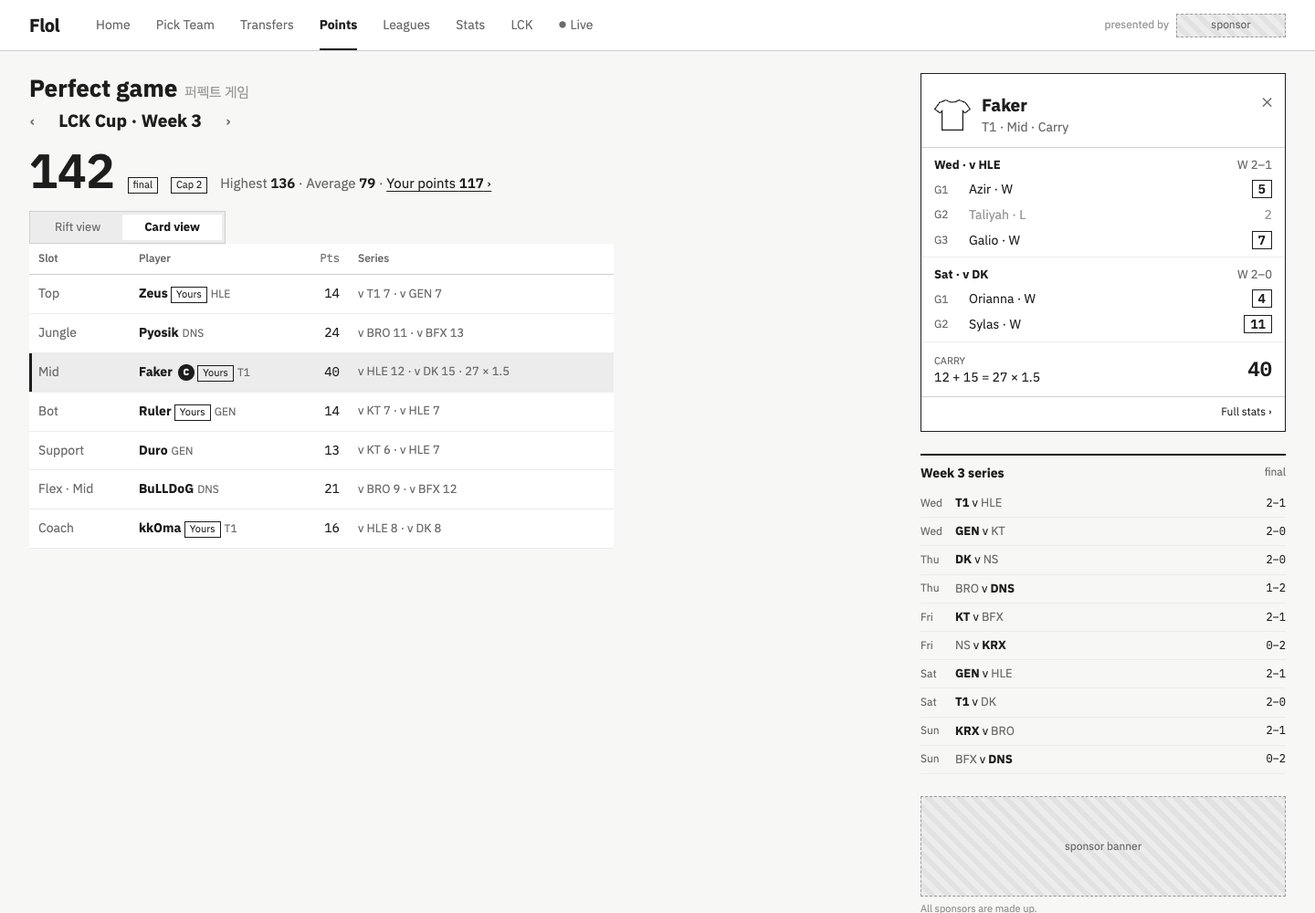
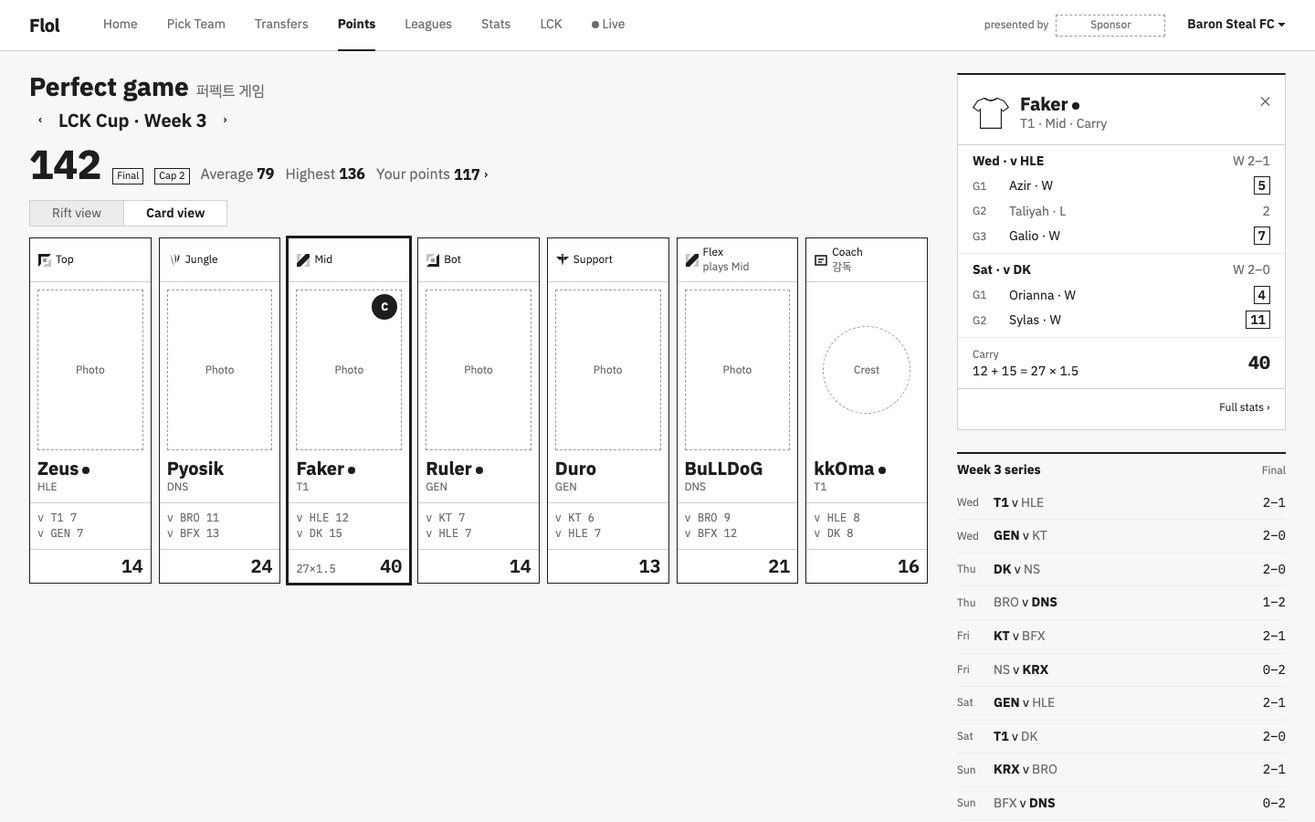
docs: Perfect game redrawn to plate.md; Card view the broadcast lineup

diff --git a/docs/design/approved/perfect-game/perfect.html b/docs/design/approved/perfect-game/perfect.html
@@ -1,159 +1,105 @@
 <!doctype html>
 <html lang="en"><head><meta charset="utf-8"><title>Perfect game</title>
-<style>@import url("https://fonts.googleapis.com/css2?family=IBM+Plex+Sans+KR:wght@400;500;700&family=IBM+Plex+Mono:wght@400;600&display=swap");
-:root { --ink: #1d1d1d; --mid: #6b6b6b; --soft: #9a9a9a; --line: #cfcfcf; --fill: #ececec; --bg: #f7f7f5; --paper: #fff; --hot: #1d1d1d; }
+<style>@import url("https://fonts.googleapis.com/css2?family=IBM+Plex+Sans+KR:wght@400;600;700&family=IBM+Plex+Mono:wght@400;600;700&display=swap");
+:root { --ink: #1d1d1d; --mid: #6b6b6b; --soft: #9a9a9a; --line: #cfcfcf; --fill: #ececec; --bg: #f7f7f5; --paper: #fff; }
 * { box-sizing: border-box; margin: 0; padding: 0; }
 body { width: 1440px; background: var(--bg); color: var(--ink); font: 14px/1.4 "IBM Plex Sans KR", sans-serif; }
-.num, .mono { font-family: "IBM Plex Mono", monospace; font-variant-numeric: tabular-nums; }
-i.ko { font-style: normal; color: var(--soft); font-size: 11px; margin-left: 4px; }
-nav.top { height: 56px; display: flex; align-items: center; gap: 28px; padding: 0 32px; background: var(--paper); border-bottom: 1px solid var(--line); }
-nav.top b.word { font-size: 20px; letter-spacing: -0.5px; margin-right: 12px; }
-nav.top a { color: var(--mid); text-decoration: none; }
-nav.top a.on { color: var(--ink); font-weight: 700; border-bottom: 2px solid var(--ink); padding-bottom: 16px; margin-bottom: -18px; }
-nav.top a.live::before { content: "●"; font-size: 9px; margin-right: 4px; vertical-align: 2px; }
+.num { font-family: "IBM Plex Mono", monospace; font-variant-numeric: tabular-nums; }
+a { color: var(--ink); text-decoration: none; }
+a.go { display: inline-flex; align-items: center; min-height: 24px; }
+.me-dot { display: inline-block; width: 8px; height: 8px; border-radius: 50%; background: var(--ink); margin-left: 4px; vertical-align: 1px; }
+
+/* Top bar: the same on every screen. */
+nav.top { height: 56px; display: flex; align-items: stretch; gap: 32px; padding: 0 32px; background: var(--paper); border-bottom: 1px solid var(--line); }
+nav.top b.word { display: flex; align-items: center; font-size: 20px; font-weight: 700; letter-spacing: -0.5px; margin-right: 16px; }
+nav.top a { display: flex; align-items: center; color: var(--mid); border-bottom: 2px solid transparent; margin-bottom: -1px; }
+nav.top a.on { color: var(--ink); font-weight: 700; border-bottom-color: var(--ink); }
+nav.top a.live::before { content: ""; width: 8px; height: 8px; border-radius: 50%; background: currentColor; margin-right: 4px; }
 nav.top .sp { flex: 1; }
-.presented { color: var(--soft); font-size: 12px; display: flex; gap: 8px; align-items: center; }
-.ph { background: repeating-linear-gradient(45deg, var(--fill), var(--fill) 6px, #e2e2e2 6px, #e2e2e2 12px); border: 1px dashed var(--soft); color: var(--mid); display: flex; align-items: center; justify-content: center; font-size: 12px; }
-.note { position: absolute; background: #fffbe0; border: 1px solid #d8cf8a; font-size: 11px; padding: 4px 7px; color: #5a5420; max-width: 220px; line-height: 1.3; z-index: 5; }
-.tag { display: inline-block; border: 1px solid var(--ink); padding: 0 5px; font-size: 11px; line-height: 16px; }
-.tag.prov { border-style: dashed; color: var(--mid); border-color: var(--mid); }
-.tag.live { background: var(--ink); color: #fff; }
-.up { color: var(--ink); } .up::before { content: "▲ "; font-size: 10px; }
-.down { color: var(--mid); } .down::before { content: "▼ "; font-size: 10px; }
-.gw { display: flex; align-items: center; gap: 16px; }
-.gw button { border: 1px solid var(--line); background: var(--paper); padding: 4px 10px; font: inherit; color: var(--mid); }
-.gw h1 { font-size: 26px; letter-spacing: -0.5px; }
-.cnt { text-decoration: underline; text-underline-offset: 3px; font-weight: 600; }
-.unc { color: var(--soft); text-decoration: line-through; }
-.lv { font-weight: 600; }
-.lv::after { content: "●"; font-size: 8px; vertical-align: 4px; margin-left: 1px; }
-.cake::after { content: " 🎂"; }
+nav.top .presented { display: flex; align-items: center; gap: 8px; color: var(--mid); font-size: 12px; }
+nav.top a.me { color: var(--ink); font-weight: 600; margin-left: -8px; }
+.ph { display: flex; align-items: center; justify-content: center; border: 1px dashed var(--soft); color: var(--mid); font-size: 12px; }
 
-.page { display: grid; grid-template-columns: 1fr 340px; gap: 28px; padding: 22px 32px 48px; }
-.head { display: flex; justify-content: space-between; align-items: center; margin-bottom: 10px; }
-.status { color: var(--mid); font-size: 13px; display: flex; gap: 8px; align-items: center; }
-.line { display: flex; align-items: baseline; gap: 22px; padding: 6px 0 14px; border-bottom: 1px solid var(--line); margin-bottom: 14px; font-size: 15px; }
-.line .big { font-size: 52px; font-weight: 600; line-height: 1; }
-.line .k { color: var(--mid); font-size: 13px; }
-.line .asof { color: var(--soft); font-size: 12px; }
-.board { display: grid; grid-template-columns: 680px 1fr; gap: 20px; }
-.rift { position: relative; width: 680px; height: 680px; }
-.rift svg.map { position: absolute; inset: 0; }
-.tile { position: absolute; width: 124px; transform: translate(-50%, -50%); text-align: center; }
-.tile .kit { position: relative; width: 56px; height: 50px; margin: 0 auto -2px; }
-.tile .kit svg.shirt { width: 56px; height: 50px; }
-.tile .kit .code { position: absolute; left: 0; right: 0; top: 18px; font-size: 10px; font-weight: 700; }
-.tile .ri { position: absolute; left: -20px; top: -2px; width: 28px; height: 28px; background: var(--paper); border: 1px solid var(--ink); display: flex; align-items: center; justify-content: center; }
-.tile .ri svg { width: 20px; height: 20px; }
-.tile .mark { position: absolute; right: -14px; top: 0; width: 20px; height: 20px; border-radius: 50%; background: var(--ink); color: #fff; font-size: 10px; font-weight: 700; display: flex; align-items: center; justify-content: center; }
-.tile .mark.v { background: var(--paper); color: var(--ink); border: 1px solid var(--ink); }
-.tile .nm { background: var(--paper); border: 1px solid var(--ink); font-weight: 700; font-size: 13px; padding: 2px 4px; }
-.tile .pt { background: var(--ink); color: #fff; font-family: "IBM Plex Mono", monospace; font-size: 18px; font-weight: 600; padding: 1px 0; }
-.tile .pt small { font-size: 10px; font-weight: 400; color: #cfcfcf; margin-left: 4px; }
-.tile .sr { background: var(--paper); border: 1px solid var(--line); border-top: 0; font-size: 10px; padding: 2px 3px; color: var(--mid); white-space: nowrap; }
-.tile.sel .nm, .tile.sel .sr { outline: 2px solid var(--ink); }
-.tile .tag { margin-top: 3px; font-size: 10px; line-height: 14px; background: var(--paper); }
-.side h3 { font-size: 13px; margin-bottom: 8px; display: flex; gap: 6px; align-items: baseline; }
-.side h3 i { font-style: normal; color: var(--soft); font-weight: 400; font-size: 11px; }
-.bench { display: flex; flex-direction: column; gap: 26px; padding: 24px 0 0 26px; border-left: 1px dashed var(--line); height: 100%; }
-.bench .tile { position: relative; transform: none; left: 0; top: 0; }
-.bench .tile.out { opacity: .5; }
-.bench .n { position: absolute; left: -22px; top: 14px; color: var(--mid); font-family: "IBM Plex Mono", monospace; }
-.subs { font-size: 12px; border-top: 1px solid var(--line); padding-top: 10px; }
-.subs div { display: grid; grid-template-columns: 1fr 1fr; gap: 4px; }
-.subs .h { color: var(--mid); }
-.legend { font-size: 11px; color: var(--mid); line-height: 1.6; }
-.drawer { margin-top: 18px; background: var(--paper); border: 1px solid var(--ink); }
-.drawer header { display: flex; align-items: center; gap: 12px; padding: 10px 14px; border-bottom: 1px solid var(--line); }
-.drawer header b { font-size: 18px; }
-.drawer header .x { margin-left: auto; color: var(--mid); }
-.drawer table { width: 100%; border-collapse: collapse; font-size: 13px; }
-.drawer th, .drawer td { padding: 5px 12px; text-align: right; border-bottom: 1px solid var(--fill); }
-.drawer th:first-child, .drawer td:first-child { text-align: left; color: var(--mid); width: 130px; }
-.drawer thead th { font-weight: 500; color: var(--mid); font-size: 12px; }
-.drawer thead tr.ser th { color: var(--ink); font-weight: 600; border-bottom: 1px solid var(--line); text-align: center; }
-.drawer td.unc, .drawer th.unc { color: var(--soft); text-decoration: none; }
-.drawer tr.tot td { font-weight: 700; font-size: 15px; border-top: 1px solid var(--ink); }
-.drawer .gap { border-left: 2px solid var(--line); }
-.drawer footer { display: flex; justify-content: space-between; padding: 9px 14px; font-size: 13px; color: var(--mid); }
-.drawer footer b { color: var(--ink); }
-aside > section { border-top: 2px solid var(--ink); padding-top: 10px; margin-bottom: 24px; }
-aside h2 { font-size: 14px; margin-bottom: 8px; display: flex; justify-content: space-between; }
+/* Parts */
+.tag { display: inline-block; border: 1px solid var(--ink); padding: 0 4px; font: 400 11px/16px "IBM Plex Sans KR", sans-serif; }
+.tog { display: inline-flex; font-size: 14px; }
+.tog span { padding: 4px 24px; border: 1px solid var(--line); background: var(--fill); color: var(--mid); }
+.tog span + span { margin-left: -1px; }
+.tog span.on { background: var(--paper); color: var(--ink); font-weight: 600; }
+
+/* Frame */
+.page { display: grid; grid-template-columns: 1fr 360px; gap: 32px; padding: 24px 32px 48px; }
+aside > section { border-top: 2px solid var(--ink); padding-top: 8px; margin-bottom: 24px; }
+aside h2 { font-size: 14px; font-weight: 700; margin-bottom: 8px; display: flex; justify-content: space-between; align-items: baseline; }
 aside h2 span { font-weight: 400; color: var(--mid); font-size: 12px; }
-.mgr .banner { height: 44px; margin-bottom: 10px; font-size: 18px; color: var(--ink); }
-.mgr b { font-size: 18px; display: block; }
-.mgr span { color: var(--mid); font-size: 13px; }
-.rk { display: grid; grid-template-columns: 1fr auto 70px; gap: 5px 12px; font-size: 13px; align-items: center; }
-.rk .r { text-align: right; font-weight: 600; }
-.rk .m { text-align: right; font-size: 12px; }
-.note2 { font-size: 12px; color: var(--mid); margin-top: 8px; }
-.wk { font-size: 13px; }
-.wk div { display: grid; grid-template-columns: 30px 1fr auto; gap: 8px; padding: 6px 0; border-bottom: 1px solid var(--fill); align-items: center; }
-.wk .d { color: var(--mid); font-size: 12px; }
-.wk .t { font-size: 12px; text-align: right; }
-.ad { height: 110px; margin-bottom: 6px; }
-.adline { font-size: 11px; color: var(--soft); }
 
-.page { grid-template-columns: 1fr 400px; padding: 24px 32px 48px; }
-.mhd { margin-bottom: 18px; }
-.mhd .tn { font-size: 26px; font-weight: 700; }
-.mhd .tn i { font-style: normal; color: var(--soft); font-size: 15px; font-weight: 400; margin-left: 8px; }
-.mhd .wkn { display: flex; gap: 26px; align-items: center; font-size: 19px; font-weight: 600; margin: 4px 0 14px; }
-.mhd .wkn span { color: var(--mid); font-weight: 400; } .mhd .wkn span.off { color: var(--line); }
-.line1 { display: flex; align-items: baseline; gap: 14px; } .line1 > b { font: 600 52px "IBM Plex Mono", monospace; line-height: 1; } .line1 .av { color: var(--mid); font-size: 15px; } .line1 .av b { color: var(--ink); font-family: "IBM Plex Mono", monospace; }
-.stats { display: flex; justify-content: center; align-items: center; gap: 44px; }
-.stats div { text-align: center; } .stats b { display: block; font-size: 30px; font-weight: 600; font-family: "IBM Plex Mono", monospace; line-height: 1.15; }
-.stats span { color: var(--mid); font-size: 12px; }
-.stats .tot { border: 2px solid var(--ink); padding: 10px 26px; } .stats .tot b { font-size: 52px; }
-.st2 { text-align: center; font-size: 13px; color: var(--mid); margin-top: 12px; display: flex; gap: 8px; justify-content: center; align-items: center; }
-.rift { width: 948px; height: 700px; }
-.rift svg.map { width: 948px; height: 700px; }
-.benchb { background: var(--fill); border: 1px solid var(--line); border-top: 0; padding: 14px 24px 18px; display: grid; grid-template-columns: auto auto 1fr; gap: 40px; align-items: start; }
-.benchb h3 { grid-column: 1 / -1; font-size: 13px; margin-bottom: -26px; } .benchb h3 i { font-style: normal; color: var(--soft); font-weight: 400; font-size: 11px; margin-left: 4px; }
-.benchb .tile { position: relative; transform: none; left: 0; top: 0; margin-top: 10px; }
-.benchb .tile.out { opacity: .5; }
-.benchb .subs { border: 0; padding-top: 22px; align-self: start; }
-.benchb .subs div { grid-template-columns: 160px 160px; }
-aside .pl { border-top: 2px solid var(--ink); background: var(--paper); border: 1px solid var(--ink); margin-bottom: 24px; }
-aside .pl header { display: flex; gap: 12px; align-items: center; padding: 12px 14px; border-bottom: 1px solid var(--line); }
-aside .pl header b { font-size: 19px; display: block; } aside .pl header .x { margin-left: auto; color: var(--mid); align-self: flex-start; }
-.ser { padding: 10px 14px 4px; border-bottom: 1px solid var(--fill); }
-.ser h4 { font-size: 13px; display: flex; justify-content: space-between; margin-bottom: 4px; } .ser h4 span { font-weight: 400; color: var(--mid); }
-.g { display: grid; grid-template-columns: 30px 1fr 44px; gap: 8px; padding: 4px 0; font-size: 14px; align-items: center; }
+/* Page head */
+.mhd { margin-bottom: 16px; }
+.mhd .tn { font-size: 28px; font-weight: 700; line-height: 1.2; }
+.mhd .tn i { font-style: normal; color: var(--mid); font-size: 16px; font-weight: 400; margin-left: 8px; }
+.mhd .wkn { display: flex; gap: 8px; align-items: center; font-size: 20px; font-weight: 600; margin: 4px 0 12px; }
+.mhd .wkn a.arr { display: inline-flex; width: 24px; height: 24px; align-items: center; justify-content: center; font-size: 16px; font-weight: 400; }
+.line1 { display: flex; align-items: baseline; gap: 12px; }
+.line1 > b { font: 700 44px "IBM Plex Mono", monospace; line-height: 1; }
+.line1 .av { color: var(--mid); font-size: 16px; display: flex; gap: 12px; align-items: baseline; } .line1 .av b { color: var(--ink); font-family: "IBM Plex Mono", monospace; }
+.line1 .av a { color: var(--mid); } .line1 .av a i { font-style: normal; color: var(--ink); margin-left: 4px; }
+.ctl2 { margin-top: 16px; }
+
+/* Rift */
+.rift { position: relative; width: 100%; height: 560px; }
+.rift svg.map { position: absolute; inset: 0; width: 100%; height: 560px; }
+.tile { position: absolute; z-index: 2; width: 148px; transform: translate(-50%, -50%); text-align: center; }
+.tile .kit { position: relative; width: 56px; height: 50px; margin: 0 auto; }
+.tile .kit svg.shirt { width: 56px; height: 50px; }
+.tile .kit .code { position: absolute; left: 0; right: 0; top: 16px; font-size: 12px; font-weight: 700; }
+.tile .ri { position: absolute; left: -24px; top: 0; width: 28px; height: 28px; background: var(--paper); border: 1px solid var(--ink); display: flex; align-items: center; justify-content: center; }
+.tile .ri svg { width: 20px; height: 20px; }
+.tile .mark { position: absolute; right: -16px; top: 0; width: 20px; height: 20px; border-radius: 50%; background: var(--ink); color: var(--paper); font-size: 12px; font-weight: 700; display: flex; align-items: center; justify-content: center; }
+.tile .nm { background: var(--paper); border: 1px solid var(--ink); font-weight: 700; font-size: 14px; padding: 0 4px; }
+.tile .pt { background: var(--ink); color: var(--paper); font-family: "IBM Plex Mono", monospace; font-size: 20px; font-weight: 600; line-height: 1.4; }
+.tile .pt small { font-size: 12px; font-weight: 400; color: var(--line); margin-left: 4px; }
+.tile .sr { background: var(--paper); border: 1px solid var(--line); border-top: 0; font-size: 12px; padding: 0 4px; color: var(--mid); }
+.tile.sel .nm, .tile.sel .sr { outline: 2px solid var(--ink); }
+.tile .tag { margin-top: 4px; background: var(--paper); }
+
+/* Card view: the seven starters as the broadcast lineup */
+.lineup { display: grid; grid-template-columns: repeat(7, 1fr); gap: 8px; margin-top: 12px; }
+.pc { background: var(--paper); border: 1px solid var(--ink); position: relative; display: flex; flex-direction: column; min-width: 0; }
+.pc .rl { height: 48px; display: flex; gap: 4px; align-items: center; padding: 4px 8px; border-bottom: 1px solid var(--line); font-size: 12px; line-height: 1.3; }
+.pc .rl svg { width: 16px; height: 16px; flex: none; } .pc .rl span small { display: block; color: var(--mid); font-size: 12px; }
+.pc .por { position: relative; height: 176px; margin: 8px; }
+.pc .por.crest { border: 0; } .pc .por.crest i { width: 96px; height: 96px; border-radius: 50%; border: 1px dashed var(--soft); display: flex; align-items: center; justify-content: center; font-style: normal; }
+.pc .nm { font-size: 20px; font-weight: 700; padding: 0 8px; line-height: 1.2; white-space: nowrap; }
+.pc .tm { font-size: 12px; color: var(--mid); padding: 0 8px 8px; }
+.pc .nx { border-top: 1px solid var(--line); padding: 8px; font-size: 12px; color: var(--mid); font-family: "IBM Plex Mono", monospace; white-space: nowrap; margin-top: auto; }
+.pc .ft { border-top: 1px solid var(--line); display: flex; justify-content: space-between; align-items: baseline; padding: 4px 8px; font-size: 12px; color: var(--mid); font-family: "IBM Plex Mono", monospace; white-space: nowrap; }
+.pc .ft b { color: var(--ink); font-size: 20px; font-weight: 600; }
+.pc .mk { position: absolute; right: 4px; top: 4px; width: 28px; height: 28px; border-radius: 50%; background: var(--ink); color: var(--paper); font-weight: 700; display: flex; align-items: center; justify-content: center; }
+.pc.sel { outline: 2px solid var(--ink); }
+
+/* Player panel */
+aside .pl { background: var(--paper); border: 1px solid var(--line); border-top: 2px solid var(--ink); margin-bottom: 24px; }
+aside .pl header { display: flex; gap: 12px; align-items: center; padding: 12px 16px; border-bottom: 1px solid var(--line); }
+aside .pl header b { font-size: 20px; display: block; line-height: 1.2; }
+aside .pl header span.s { color: var(--mid); }
+aside .pl header .x { margin-left: auto; color: var(--mid); align-self: flex-start; }
+.ser { padding: 8px 16px 4px; border-bottom: 1px solid var(--fill); }
+.ser h4 { font-size: 14px; display: flex; justify-content: space-between; margin-bottom: 4px; } .ser h4 span { font-weight: 400; color: var(--mid); }
+.g { display: grid; grid-template-columns: 32px 1fr 48px; gap: 8px; padding: 4px 0; align-items: center; }
 .g .r { color: var(--mid); font-size: 12px; } .g .p { text-align: right; font-family: "IBM Plex Mono", monospace; font-weight: 600; }
-.g.drop { color: var(--soft); } .g.drop .p { font-weight: 400; } .g .box { border: 1.5px solid var(--ink); padding: 0 6px; }
-.g.live .p::after { content: " ●"; font-size: 9px; vertical-align: 2px; }
-.pl .sum { padding: 10px 14px; display: flex; justify-content: space-between; align-items: center; border-bottom: 1px solid var(--line); }
-.pl .sum b { font-family: "IBM Plex Mono", monospace; font-size: 22px; }
-.pl .ft { padding: 8px 14px 12px; font-size: 12px; color: var(--mid); display: flex; justify-content: space-between; gap: 10px; } .pl .ft a { color: var(--ink); white-space: nowrap; }
-.st3 { display: flex; justify-content: center; gap: 26px; font-size: 13px; color: var(--mid); margin-top: 8px; }
-.st3 b { color: var(--ink); font-family: "IBM Plex Mono", monospace; }
-.sfk { display: grid; grid-template-columns: repeat(3, 1fr); gap: 8px; }
-.sfk div { border: 1px solid var(--line); background: var(--paper); padding: 8px 10px; font-size: 12px; color: var(--mid); }
-.sfk .k { display: block; font-size: 11px; text-transform: none; } .sfk b { display: block; color: var(--ink); font-size: 15px; }
-.livebar { display: flex; align-items: center; gap: 10px; margin-top: 14px; padding: 9px 14px; border: 1.5px solid var(--ink); background: var(--paper); font-size: 14px; }
-.livebar a { text-decoration: underline; color: var(--ink); } .livebar .sep { width: 1px; height: 18px; background: var(--line); margin: 0 6px; }
-.key { display: flex; gap: 14px; align-items: center; font-size: 12px; color: var(--mid); margin: 14px 0 8px; }
-.key span:last-child { margin-left: auto; }
-.kc { display: inline-flex; width: 18px; height: 18px; border-radius: 50%; background: var(--ink); color: #fff; font-size: 10px; font-weight: 700; align-items: center; justify-content: center; margin-right: -8px; }
-.kc.v { background: var(--paper); color: var(--ink); border: 1px solid var(--ink); }
-.rift { height: 560px !important; } .rift svg.map { height: 560px !important; }
-.basebox { position: absolute; left: 14px; top: 386px; width: 304px; height: 164px; border: 1.5px dashed var(--ink); background: rgba(255,255,255,.55); }
-.basebox span { position: absolute; left: 8px; top: 4px; font-size: 11px; color: var(--mid); }
-.tile { z-index: 2; } .basebox { top: 346px; height: 208px; }
-.ctl2 { margin-top: 14px; } .tog { display: inline-flex; border: 1px solid var(--line); background: var(--fill); padding: 3px; font-size: 13px; } .tog span { padding: 5px 24px; color: var(--mid); } .tog span.on { background: var(--paper); color: var(--ink); font-weight: 600; }
+.g.drop { color: var(--mid); } .g.drop .p { font-weight: 400; } .g .box { border: 1px solid var(--ink); padding: 0 4px; }
+.pl .sum { padding: 8px 16px; display: flex; justify-content: space-between; align-items: center; border-bottom: 1px solid var(--line); }
+.pl .sum .k { font-size: 12px; color: var(--mid); }
+.pl .sum b { font-family: "IBM Plex Mono", monospace; font-size: 20px; }
+.pl .ft { padding: 8px 16px 12px; font-size: 12px; text-align: right; }
 
-table.cv { width: 640px; border-collapse: collapse; background: var(--paper); font-size: 14px; }
-table.cv th { text-align: left; font-weight: 500; color: var(--mid); font-size: 12px; padding: 8px 10px; border-bottom: 1px solid var(--line); }
-table.cv td { padding: 11px 10px; border-bottom: 1px solid var(--fill); }
-table.cv td.n, table.cv th.n { text-align: right; font-family: "IBM Plex Mono", monospace; }
-table.cv td small { color: var(--mid); font-size: 12px; margin-left: 4px; }
-table.cv td .c { display: inline-flex; width: 18px; height: 18px; border-radius: 50%; background: var(--ink); color: #fff; font-size: 10px; font-weight: 700; align-items: center; justify-content: center; margin-left: 6px; vertical-align: 1px; }
-table.cv tr.tot td { font-weight: 700; border-bottom: 0; }
-table.cv tr.sel td { background: var(--fill); } table.cv tr.sel td:first-child { box-shadow: inset 3px 0 0 var(--ink); }
+/* Series */
+.wk div { display: grid; grid-template-columns: 32px 1fr auto; gap: 8px; padding: 8px 0; border-bottom: 1px solid var(--fill); align-items: center; }
+.wk .d { color: var(--mid); font-size: 12px; }
+.wk .t { text-align: right; }
 .wk b.lo { font-weight: 400; color: var(--mid); }
-.cap { margin-top: 10px; font-size: 13px; color: var(--mid); }
-.cap b { color: var(--ink); font-weight: 600; }
+.ad { height: 112px; }
+.adline { font-size: 12px; color: var(--mid); margin-top: 8px; }
 .view { display: none; } body.v-rift .vr, body.v-card .vc { display: block; }
 </style></head>
 <body>
@@ -166,23 +112,20 @@ table.cv tr.sel td { background: var(--fill); } table.cv tr.sel td:first-child {
     <symbol id="i-jng" viewBox="0 0 16 16"><path d="M3 1c2 4 2 9 5 14C6 10 6 6 3 1zM8 1c1 4 1 8 1 11 1-3 2-7-1-11zM13 1c-1 3-2 6-2 9 2-2 3-6 2-9z" fill="#1d1d1d"/></symbol>
     <symbol id="i-sup" viewBox="0 0 16 16"><path d="M8 3l2 2-2 9-2-9zM1 4h5l1 2-2 2zM15 4h-5l-1 2 2 2zM6 2l2-1 2 1-2 1z" fill="#1d1d1d"/></symbol>
     <symbol id="i-coach" viewBox="0 0 16 16"><rect x="2" y="3" width="12" height="10" fill="none" stroke="#1d1d1d" stroke-width="1.6"/><path d="M5 7h6M5 10h4" stroke="#1d1d1d" stroke-width="1.4"/></symbol>
-    <symbol id="i-flex" viewBox="0 0 16 16"><path d="M8 1l2 5h5l-4 3 2 6-5-4-5 4 2-6-4-3h5z" fill="none" stroke="#1d1d1d" stroke-width="1.4"/></symbol>
     <symbol id="shirt" viewBox="0 0 56 50"><path d="M18 2 L8 6 L1 16 L9 22 L12 19 L12 48 L44 48 L44 19 L47 22 L55 16 L48 6 L38 2 Q28 9 18 2 Z" fill="#fff" stroke="#1d1d1d" stroke-width="1.6"/><path d="M18 2 Q28 9 38 2" fill="none" stroke="#1d1d1d" stroke-width="1.6"/></symbol>
   </defs>
 </svg>
 
-
-
 <nav class="top"><b class="word">Flol</b><a>Home</a><a>Pick Team</a><a>Transfers</a><a class="on">Points</a><a>Leagues</a><a>Stats</a><a>LCK</a><a class="live">Live</a><span class="sp"></span>
-  <span class="presented">presented by <span class="ph" style="width:120px;height:26px">sponsor</span></span></nav>
+  <span class="presented">presented by <span class="ph" style="width:120px;height:24px">Sponsor</span></span><a class="me">Baron Steal FC ▾</a></nav>
 <div class="page">
 <main>
   <div class="mhd"><div class="tn">Perfect game<i>퍼펙트 게임</i></div>
-    <div class="wkn"><span>‹</span>LCK Cup · Week 3<span>›</span></div>
-    <div class="line1"><b id="total"></b><span class="tag">final</span><span class="tag">Cap 2</span><span class="av">Highest <b>136</b> · Average <b>79</b> · <a style="color:var(--ink);text-decoration:underline;text-underline-offset:3px">Your points <b>117</b> ›</a></span></div>
-    </div>
+    <div class="wkn"><a class="arr">‹</a>LCK Cup · Week 3<a class="arr">›</a></div>
+    <div class="line1"><b id="total"></b><span class="tag">Final</span><span class="tag">Cap 2</span><span class="av"><span>Average <b>79</b></span><span>Highest <b>136</b></span><a class="go">Your points&nbsp;<b>117</b><i>›</i></a></span></div>
+  </div>
   <div class="ctl2"><span class="tog"><span class="tr">Rift view</span><span class="tc">Card view</span></span></div>
-  <div class="view vr"><div class="rift" id="riftmap"><svg class="map" viewBox="0 0 680 680" preserveAspectRatio="none">
+  <div class="view vr"><div class="rift" id="map"><svg class="map" viewBox="0 0 680 680" preserveAspectRatio="none">
         <rect x="0" y="0" width="680" height="680" fill="#ededeb"/>
         <path d="M0 40 L40 0 L680 640 L640 680 Z" fill="#dcdcd8"/>
         <path d="M60 640 L60 60 L640 60" fill="none" stroke="#fff" stroke-width="44" stroke-linejoin="round"/>
@@ -195,10 +138,10 @@ table.cv tr.sel td { background: var(--fill); } table.cv tr.sel td:first-child {
         <rect x="250" y="424" width="12" height="12"/><rect x="420" y="254" width="12" height="12"/></g>
         <circle cx="200" cy="200" r="16" fill="none" stroke="#9a9a9a" stroke-dasharray="3 3"/><circle cx="480" cy="480" r="16" fill="none" stroke="#9a9a9a" stroke-dasharray="3 3"/>
       </svg></div></div>
-  <div class="view vc"><table class="cv" id="cv"></table></div>
+  <div class="view vc"><div class="lineup" id="lineup"></div></div>
 </main>
 <aside>
-  <section class="pl"><header><svg width="40" height="36"><use href="#shirt"/></svg><div><b>Faker</b><span style="color:var(--mid)">T1 · Mid · Carry</span></div><span class="x">✕</span></header>
+  <section class="pl"><header><svg width="40" height="36"><use href="#shirt"/></svg><div><b>Faker<i class="me-dot"></i></b><span class="s">T1 · Mid · Carry</span></div><span class="x">✕</span></header>
     <div class="ser"><h4>Wed · v HLE <span>W 2–1</span></h4>
       <div class="g"><span class="r">G1</span><span>Azir · W</span><span class="p"><span class="box">5</span></span></div>
       <div class="g drop"><span class="r">G2</span><span>Taliyah · L</span><span class="p">2</span></div>
@@ -206,10 +149,10 @@ table.cv tr.sel td { background: var(--fill); } table.cv tr.sel td:first-child {
     <div class="ser"><h4>Sat · v DK <span>W 2–0</span></h4>
       <div class="g"><span class="r">G1</span><span>Orianna · W</span><span class="p"><span class="box">4</span></span></div>
       <div class="g"><span class="r">G2</span><span>Sylas · W</span><span class="p"><span class="box">11</span></span></div></div>
-    <div class="sum"><span><span style="font-size:11px;color:var(--mid)">CARRY</span><br>12 + 15 = 27 × 1.5</span><b>40</b></div>
-    <div class="ft"><span></span><a>Full stats ›</a></div></section>
-  <section><h2>Week 3 series <span>final</span></h2><div class="wk" id="week"></div></section>
-  <div class="ad ph">sponsor banner</div><div class="adline">All sponsors are made up.</div>
+    <div class="sum"><span><span class="k">Carry</span><br>12 + 15 = 27 × 1.5</span><b>40</b></div>
+    <div class="ft"><a class="go">Full stats ›</a></div></section>
+  <section><h2>Week 3 series <span>Final</span></h2><div class="wk" id="week"></div></section>
+  <div class="ad ph">Sponsor</div><div class="adline">All sponsors are made up.</div>
 </aside>
 </div>
 <script>
@@ -222,25 +165,32 @@ const TEAM = [
   { slot: "mid", role: "Mid", name: "Faker", mine: true, team: "T1", pts: 40, raw: 27, c: true, line: "v HLE 12 · v DK 15" },
   { slot: "bot", role: "Bot", name: "Ruler", mine: true, team: "GEN", pts: 14, line: "v KT 7 · v HLE 7" },
   { slot: "sup", role: "Support", name: "Duro", team: "GEN", pts: 13, line: "v KT 6 · v HLE 7" },
-  { slot: "flex", role: "Flex · Mid", name: "BuLLDoG", team: "DNS", pts: 21, line: "v BRO 9 · v BFX 12", plays: "mid" },
+  { slot: "flex", role: "Flex", plays: "mid", name: "BuLLDoG", team: "DNS", pts: 21, line: "v BRO 9 · v BFX 12" },
   { slot: "coach", role: "Coach", name: "kkOma", mine: true, team: "T1", pts: 16, line: "v HLE 8 · v DK 8" },
 ];
 const $ = (id) => document.getElementById(id);
-const POS = { top: [104, 70], jng: [280, 262], mid: [500, 260], coach: [92, 468], flex: [238, 468], sup: [650, 486], bot: [846, 486] };
-const ICON = { top: "i-top", jng: "i-jng", mid: "i-mid", bot: "i-bot", sup: "i-sup", coach: "i-coach", flex: "i-mid" };
+const POS = { top: [104, 70], jng: [280, 262], mid: [500, 260], coach: [92, 468], flex: [252, 468], sup: [650, 486], bot: [846, 486] };
+const ICON = { top: "i-top", jng: "i-jng", mid: "i-mid", bot: "i-bot", sup: "i-sup", coach: "i-coach" };
+const icon = (p) => ICON[p.plays || p.slot];
+const dot = (p) => (p.mine ? '<i class="me-dot"></i>' : "");
 TEAM.forEach((p) => {
   const t = document.createElement("div");
   t.className = "tile" + (p.c ? " sel" : "");
-  t.innerHTML = `<div class="kit"><svg class="shirt"><use href="#shirt"/></svg><span class="code">${p.team}</span><span class="ri"><svg><use href="#${ICON[p.slot]}"/></svg></span>${p.c ? '<span class="mark">C</span>' : ""}</div>
-    <div class="nm">${p.name}</div><div class="pt">${p.pts}${p.c ? `<small>${p.raw}×1.5</small>` : ""}</div><div class="sr">${p.line}</div>
-    ${p.mine ? '<div class="tag">Yours</div>' : ""}${p.slot === "flex" ? '<div class="tag" style="border-color:var(--line);color:var(--mid)">Flex · plays Mid</div>' : ""}${p.slot === "coach" ? '<div class="tag" style="border-color:var(--line);color:var(--mid)">Coach 감독</div>' : ""}`;
-  t.style.left = POS[p.slot][0] + "px"; t.style.top = POS[p.slot][1] + "px"; $("riftmap").appendChild(t);
+  t.innerHTML = `<div class="kit"><svg class="shirt"><use href="#shirt"/></svg><span class="code">${p.team}</span><span class="ri"><svg><use href="#${icon(p)}"/></svg></span>${p.c ? '<span class="mark">C</span>' : ""}</div>
+    <div class="nm">${p.name}${dot(p)}</div><div class="pt">${p.pts}${p.c ? `<small>${p.raw}×1.5</small>` : ""}</div><div class="sr">${p.line}</div>
+    ${p.slot === "flex" ? '<div class="tag">Flex · plays Mid</div>' : ""}${p.slot === "coach" ? '<div class="tag">Coach 감독</div>' : ""}`;
+  t.style.left = POS[p.slot][0] + "px"; t.style.top = POS[p.slot][1] + "px"; $("map").appendChild(t);
 });
-const TOTAL = TEAM.reduce((s, p) => s + p.pts, 0);
-$("total").textContent = TOTAL;
-$("cv").innerHTML = `<tr><th>Slot</th><th>Player</th><th class="n">Pts</th><th>Series</th></tr>` + TEAM.map((p) =>
-  `<tr${p.c ? ' class="sel"' : ""}><td style="color:var(--mid);width:110px">${p.role}</td><td style="width:190px"><b>${p.name}</b>${p.c ? '<span class="c">C</span>' : ""}${p.mine ? ' <span class="tag">Yours</span>' : ""}<small>${p.team}</small></td><td class="n" style="width:50px">${p.pts}</td><td style="color:var(--mid);font-size:13px">${p.line}${p.c ? ` · ${p.raw} × 1.5` : ""}</td></tr>`).join("")
-  ;
+$("total").textContent = TEAM.reduce((s, p) => s + p.pts, 0);
+// Card view: Top, Jungle, Mid, Bot, Support, Flex, Coach, as the LCK broadcast's lineup
+$("lineup").innerHTML = TEAM.map((p) => {
+  const role = p.slot === "flex" ? "Flex<small>plays Mid</small>" : p.slot === "coach" ? "Coach<small>감독</small>" : p.role;
+  const mk = p.c ? '<span class="mk">C</span>' : "";
+  const por = p.slot === "coach" ? `<div class="por ph crest"><i>Crest</i>${mk}</div>` : `<div class="por ph">Photo${mk}</div>`;
+  return `<div class="pc ${p.c ? "sel" : ""}"><div class="rl"><svg><use href="#${icon(p)}"/></svg><span>${role}</span></div>
+    ${por}<div class="nm">${p.name}${dot(p)}</div><div class="tm">${p.team}</div>
+    <div class="nx">${p.line.split(" · ").join("<br>")}</div><div class="ft"><span>${p.c ? `${p.raw}×1.5` : ""}</span><b>${p.pts}</b></div></div>`;
+}).join("");
 $("week").innerHTML = SERIES.map(([d, a, sa, sb, b]) => `<div><span class="d">${d}</span><span><b class="${sa > sb ? "" : "lo"}">${a}</b> v <b class="${sb > sa ? "" : "lo"}">${b}</b></span><span class="t num">${sa}–${sb}</span></div>`).join("");
 // the view is the one saved on Points: switching here saves it there too
 const v = location.hash.slice(1) || "rift";

diff --git a/docs/design/approved/perfect-game/README.md b/docs/design/approved/perfect-game/README.md
@@ -2,12 +2,12 @@
 
 The gameweek's best team: the 7 starter slots, one of them the Carry, under the team cap (spec/12). Reached from **Highest ›** on Points and from **Star and flop** on Home. Drawn at 1440 in the shared frame.
 
-**Approved:** Craig, 15 Nov 2026: "Yes, save". Before that he settled three things: the view is the one saved on Points ("we use that preference here"), your own players are marked, and both links (Points and Home). Names, teams and numbers are a made-up LCK Cup Week 3, final, that agree with Points; they are not roster data. No `plate.md` yet: this binds layout, content and order, not colour or type. The source is [docs/design/proposals/2026-11-16-perfect-game/](../../proposals/2026-11-16-perfect-game/) (`perfect.html`, `brief.md`).
+**Approved:** Craig, 15 Nov 2026: "Yes, save". Before that he settled three things: the view is the one saved on Points ("we use that preference here"), your own players are marked, and both links (Points and Home). Names, teams and numbers are a made-up LCK Cup Week 3, final, that agree with Points; they are not roster data. Redrawn to [plate.md](../../plate.md) on 15 Nov 2026; this binds layout, content and order, and plate.md how it is drawn. The source is [docs/design/proposals/2026-11-16-perfect-game/](../../proposals/2026-11-16-perfect-game/) (`perfect.html`, `brief.md`).
 
 | File | Shows |
 |---|---|
 | `1440.png`, `perfect.html#rift` | Rift view: the seven on the Rift, Faker as Carry and tapped |
-| `1440-card.png`, `perfect.html#card` | Card view: one row per slot |
+| `1440-card.png`, `perfect.html#card` | Card view: the seven as the broadcast lineup, Faker as Carry |
 
 ## Borrowed
 
@@ -17,8 +17,8 @@ The gameweek's best team: the 7 starter slots, one of them the Carry, under the 
 
 ## Layout
 
-- **Header:** Perfect game and hangul; ‹ week ›; the total, final or Not final, Cap 2; Highest, Average, Your points ›.
-- **Left:** Rift view | Card view; each player's points and series; C on the Carry with its ×1.5; Yours on each player you own; Flex shows the role it plays; Coach 감독.
+- **Header:** Perfect game and hangul; ‹ week ›; the total, Final or Not final, Cap 2; Average, Highest, Your points ›.
+- **Left:** Rift view | Card view (Card view is the broadcast lineup, no bench: redrawn 15 Nov 2026 from a table); each player's points and series; C on the Carry with its ×1.5; the dot after each player you own; Flex shows the role it plays; Coach 감독.
 - **Right:** the tapped player's games, the week's series, the sponsor slot.
 
 ## Controls
